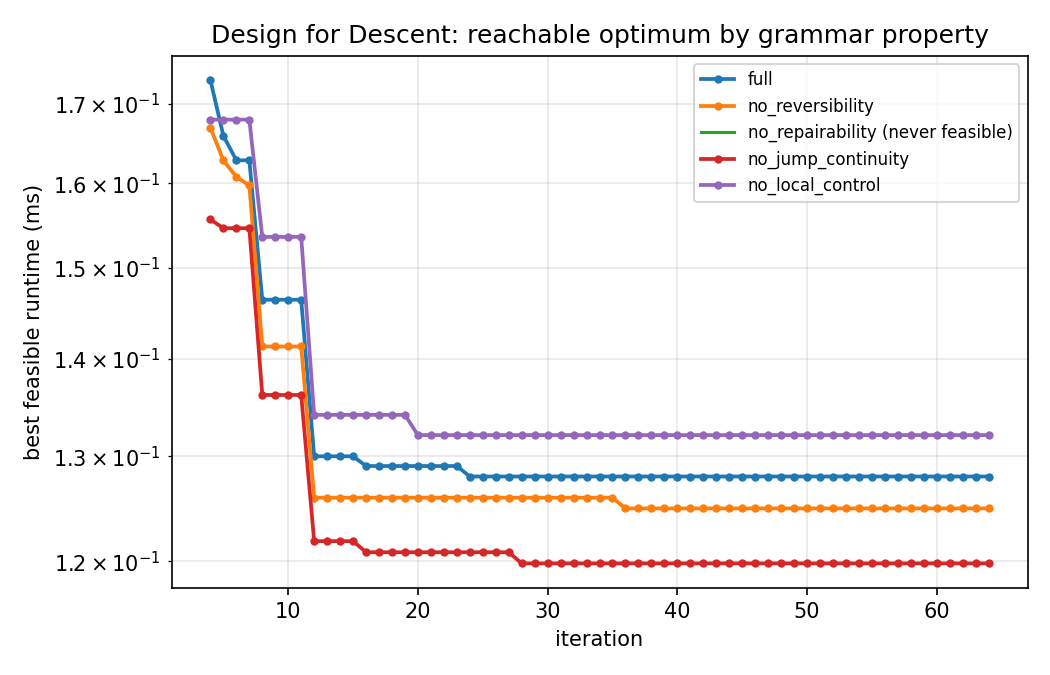
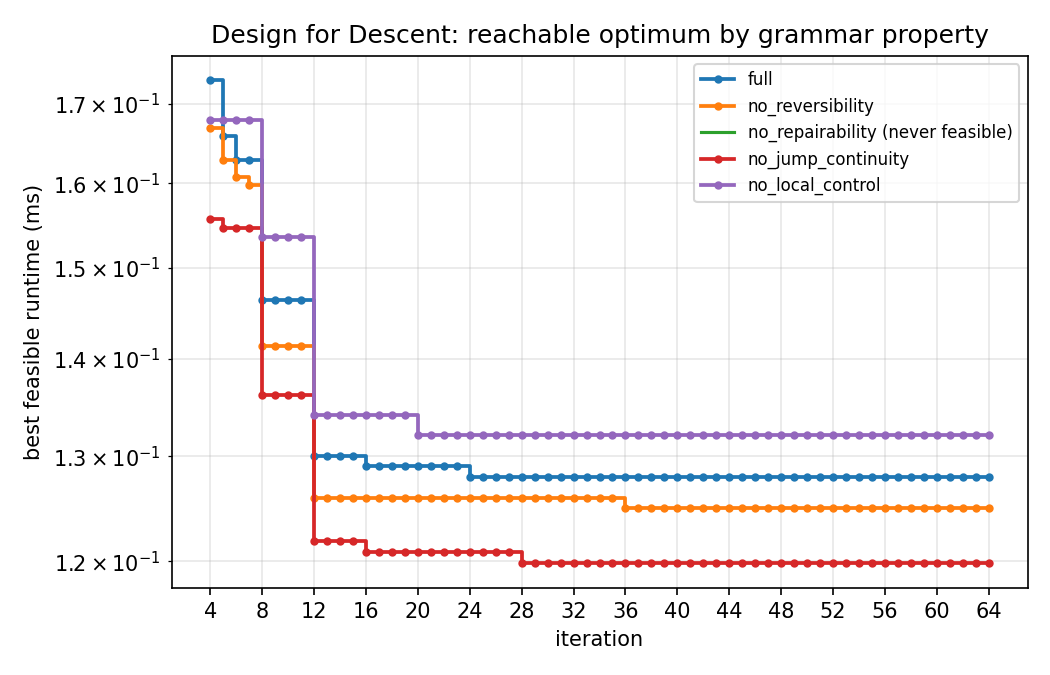
Figures, try for a manually fast kernel

diff --git a/manual-fast.py b/manual-fast.py
@@ -1,0 +1,164 @@
+"""Manually crafted fast attention kernel using the grammar.
+
+Three-stage design vs. the six stages in the atomic start / best_it24:
+
+  Stage 1:  Ss = (Q @ KT) * scale       -- matmul fused with scale, tiled over dd
+  Stage 2:  P  = softmax(Ss)            -- full-row softmax fused in ONE kernel:
+                                             rowmax -> sub -> exp -> rowsum -> div
+  Stage 3:  O  = P @ V                  -- matmul tiled over j with ReductionLoop
+
+Key savings vs. the search-discovered best_it24:
+  - Eliminates the separate mx (rowmax) and sm (rowsum) stages.
+  - Eliminates the intermediate e[N,N] tensor (1 write + 2 reads = ~3 MB for N=512).
+  - Reduces from 6 kernel launches to 3.
+  - The full softmax is computed in registers with a single pass over Ss.
+
+Tile choices (N=512, d=64) — small/conservative starting point:
+  Ss : (16, 16), RTILE_dd = 16  -> 1024 blocks, 4 reduction steps over dd
+  P  : (16, N),  no ReductionLoop -> 32 blocks, each loads one full Ss row (32 KB)
+                 (full-row load is required for correctness of rowmax/rowsum)
+  O  : (16, 16), RTILE_j  = 16  -> 128 blocks, 32 reduction steps over j
+"""
+
+import math
+
+from grammar.kernel_ast import (
+    Program, ParallelLoop, Load, Store, Compute, ReductionLoop, emit_module,
+)
+
+
+def build_fast_attention(N: int = 512, d: int = 64) -> Program:
+    """Return the hand-crafted three-stage attention Program."""
+    scale = 1.0 / math.sqrt(d)
+
+    # ------------------------------------------------------------------
+    # Stage 1: Ss = (Q @ KT) * scale
+    #
+    # Tile (16, 16) over output axes (i, j).  A ReductionLoop over dd
+    # (tile = 16) tiles the head-dimension contraction.  The scale multiply
+    # sits OUTSIDE the loop so it touches the fully-accumulated (16,16) tile
+    # once — identical to the fused Ss_kernel in best_it24.
+    # ------------------------------------------------------------------
+    Q1  = Load("Q",  ["i", "dd"])
+    KT1 = Load("KT", ["dd", "j"])
+    S1  = Compute("matmul", [Q1, KT1])
+    rl_dd = ReductionLoop("dd", tile=16, body=[Q1, KT1, S1], partial=S1)
+    Ss1   = Compute("mulc", [rl_dd], const=scale)
+    s_Ss  = ParallelLoop(
+        "Ss", (16, 16), ("i", "j"),
+        [rl_dd, Ss1, Store("Ss", Ss1, ["i", "j"])],
+    )
+
+    # ------------------------------------------------------------------
+    # Stage 2: P = softmax(Ss) — all ops fused in one kernel.
+    #
+    # Tile (16, N): j is NOT tiled (tile == global extent N), so each
+    # block loads one full row of Ss into registers, then computes:
+    #
+    #   mx  = rowmax(Ss)          -> (16, 1)
+    #   sb  = Ss - mx             -> (16, N)   broadcast
+    #   e   = exp(sb)             -> (16, N)
+    #   sm  = rowsum(e)           -> (16, 1)
+    #   P   = e / sm              -> (16, N)   broadcast
+    #
+    # This eliminates the mx[N,1], e[N,N], sm[N,1] intermediates and the
+    # three extra kernel launches that best_it24 uses for those stages.
+    #
+    # Peak tile: Ss load (16, N) = 32 KB — safely within the 64 KB budget.
+    # ------------------------------------------------------------------
+    SsL = Load("Ss", ["i", "j"])                       # (16, N) full row
+    mx  = Compute("rowmax", [SsL], axis="j")           # (16,  1)
+    sb  = Compute("sub",    [SsL, mx])                 # (16,  N)  broadcasts mx
+    e   = Compute("exp",    [sb])                      # (16,  N)
+    sm  = Compute("rowsum", [e],   axis="j")           # (16,  1)
+    P2  = Compute("div",    [e, sm])                   # (16,  N)  broadcasts sm
+    s_P = ParallelLoop(
+        "P", (16, N), ("i", "j"),
+        [SsL, mx, sb, e, sm, P2, Store("P", P2, ["i", "j"])],
+    )
+
+    # ------------------------------------------------------------------
+    # Stage 3: O = P @ V
+    #
+    # Tile (16, 16) over (i, dd).  A ReductionLoop over j (tile = 16)
+    # tiles the key-axis contraction.  Both P and V are loaded inside
+    # the loop: P(16,16) and V(16,16) per step, 32 steps total.
+    #
+    #   Grid      : (512/16, 64/16) = (32, 4) = 128 blocks
+    #   Peak tile : max(P=1 KB, V=1 KB, O_acc=1 KB) — well within budget
+    # ------------------------------------------------------------------
+    P3  = Load("P", ["i", "j"])
+    V3  = Load("V", ["j", "dd"])
+    O3  = Compute("matmul", [P3, V3])
+    rl_j = ReductionLoop("j", tile=16, body=[P3, V3, O3], partial=O3)
+    s_O  = ParallelLoop(
+        "O", (16, 16), ("i", "dd"),
+        [rl_j, Store("O", rl_j, ["i", "dd"])],
+    )
+
+    tens = {
+        "Q":  (N, d), "KT": (d, N), "V": (N, d),
+        "Ss": (N, N), "P":  (N, N), "O": (N, d),
+    }
+    return Program(tens, [s_Ss, s_P, s_O])
+
+
+# ---------------------------------------------------------------------------
+# CLI: --emit / --verify / --bench
+# ---------------------------------------------------------------------------
+if __name__ == "__main__":
+    import argparse
+
+    ap = argparse.ArgumentParser(
+        description="Emit and optionally benchmark the hand-crafted fast attention kernel."
+    )
+    ap.add_argument("--n",      type=int, default=512, help="sequence length N")
+    ap.add_argument("--d",      type=int, default=64,  help="head dimension d")
+    ap.add_argument("--emit",   action="store_true",   help="print the emitted kernel source")
+    ap.add_argument("--verify", action="store_true",   help="check numerical correctness vs. PyTorch reference")
+    ap.add_argument("--bench",  action="store_true",   help="time the kernel on GPU (requires CUDA)")
+    ap.add_argument("--warmup", type=int, default=5,   help="warmup iterations for benchmarking")
+    ap.add_argument("--reps",   type=int, default=200, help="timed iterations for benchmarking")
+    args = ap.parse_args()
+
+    prog = build_fast_attention(args.n, args.d)
+    src  = emit_module(prog)
+
+    if args.emit or (not args.verify and not args.bench):
+        print(src)
+
+    if args.verify or args.bench:
+        import cupy as cp
+        from grammar.optimization import _import_source
+
+        mod     = _import_source(src)
+        inp_map = {nm: cp.random.randn(*s).astype(cp.float32)
+                   for nm, s in mod.KERNEL_META["inputs"]}
+        inp_list = [inp_map[nm] for nm, _ in mod.KERNEL_META["inputs"]]
+
+        if args.verify:
+            out = mod.fn(*inp_list)
+            Q, KT, V = inp_map["Q"], inp_map["KT"], inp_map["V"]
+            S_ref = (Q @ KT) / math.sqrt(args.d)
+            e_ref = cp.exp(S_ref - S_ref.max(1, keepdims=True))
+            ref   = (e_ref / e_ref.sum(1, keepdims=True)) @ V
+            ok    = bool(cp.allclose(out, ref, rtol=1e-2, atol=1e-2))
+            print(f"correctness: {'PASS' if ok else 'FAIL'}")
+
+        if args.bench:
+            import time
+
+            for _ in range(args.warmup):
+                mod.fn(*inp_list)
+            cp.cuda.runtime.deviceSynchronize()
+
+            t0 = time.perf_counter()
+            for _ in range(args.reps):
+                mod.fn(*inp_list)
+            cp.cuda.runtime.deviceSynchronize()
+            ms = (time.perf_counter() - t0) * 1e3 / args.reps
+
+            flops  = mod.KERNEL_META["flops"]
+            tflops = flops / (ms * 1e-3) / 1e12
+            print(f"mean: {ms:.4f} ms  |  {tflops:.3f} TFLOP/s")
+            print(f"(best_it24 reference: 0.1063 ms on NVIDIA L4)")

diff --git a/plot_ablation.py b/plot_ablation.py
@@ -22,10 +22,12 @@ import argparse
 import json
 import math
 import os
+import re
 
 import matplotlib
 matplotlib.use("Agg")            # headless / no display needed
 import matplotlib.pyplot as plt
+from matplotlib.ticker import MultipleLocator
 
 
 PENALTY_BASE = 1e9               # matches optimization.MEM_PENALTY_BASE
@@ -90,13 +92,14 @@ def plot_ablation(runs: dict, out_path: str):
         feasible = any(not math.isnan(y) for y in ys)
         any_feasible[label] = feasible
         if feasible:
-            ax.plot(its, ys, marker="o", ms=3, lw=1.8, label=label)
+            ax.plot(its, ys, marker="o", ms=3, lw=1.8, label=label, drawstyle="steps-post")
         else:
             # never reached a compilable kernel: draw a flat line at the top so it
             # reads as "pinned at infeasible" rather than vanishing.
             ax.plot(its, [float("nan")] * len(its), label=f"{label} (never feasible)")
     ax.set_xlabel("iteration")
     ax.set_ylabel("best feasible runtime (ms)")
+    ax.xaxis.set_major_locator(MultipleLocator(4))
     ax.set_yscale("log")
     ax.set_title("Design for Descent: reachable optimum by grammar property")
     ax.legend(fontsize=8)
@@ -109,15 +112,78 @@ def plot_ablation(runs: dict, out_path: str):
         print(f"  {label}: {note}")
 
 
+def load_tflops(run_dir: str):
+    """Read results/it*.json -> sorted list of (iteration, tflops) pairs."""
+    results_dir = os.path.join(run_dir, "results")
+    if not os.path.isdir(results_dir):
+        return []
+    pairs = []
+    for fname in os.listdir(results_dir):
+        m = re.fullmatch(r"it(\d+)\.json", fname)
+        if not m:
+            continue
+        iteration = int(m.group(1))
+        with open(os.path.join(results_dir, fname)) as f:
+            data = json.load(f)
+        tflops = data.get("stats", {}).get("tflops")
+        if tflops is not None:
+            pairs.append((iteration, float(tflops)))
+    pairs.sort()
+    return pairs
+
+
+def load_baseline_tflops(json_path: str):
+    """Return the tflops value from a baseline result JSON, or None if missing."""
+    try:
+        with open(json_path) as f:
+            data = json.load(f)
+        return float(data["stats"]["tflops"])
+    except (OSError, KeyError, ValueError):
+        return None
+
+
+def plot_tflops(runs: dict, out_path: str, plot_refs: bool):
+    """runs: {label: run_dir}. TFLOP/s at each benchmarked iteration, one line each."""
+    fig, ax = plt.subplots(figsize=(7, 4.5))
+    for label, rd in runs.items():
+        pairs = load_tflops(rd)
+        if not pairs:
+            print(f"  {label}: no results/ data found, skipping")
+            continue
+        its, tflops = zip(*pairs)
+        ax.plot(its, tflops, marker="o", ms=4, lw=1.8, label=label, drawstyle="steps-post")
+
+    # Baseline reference lines
+    if plot_refs:
+        _script_dir = os.path.dirname(os.path.abspath(__file__))
+        flash2 = load_baseline_tflops(os.path.join(_script_dir, "results", "flash2-sota.json"))
+        naive  = load_baseline_tflops(os.path.join(_script_dir, "results", "naive-pytorch.json"))
+        if flash2 is not None:
+            ax.axhline(flash2, color="black", lw=1.2, ls="--", label=f"FlashAttn2 ({flash2:.2f} TFLOP/s)")
+        if naive is not None:
+            ax.axhline(naive, color="gray", lw=1.2, ls=":", label=f"Naive PyTorch ({naive:.2f} TFLOP/s)")
+
+    ax.set_xlabel("iteration")
+    ax.set_ylabel("TFLOP/s")
+    ax.xaxis.set_major_locator(MultipleLocator(4))
+    ax.set_title("Kernel throughput improvmenet by grammar property")
+    ax.legend(fontsize=8)
+    ax.grid(True, alpha=0.3)
+    fig.tight_layout()
+    fig.savefig(out_path, dpi=150)
+    print(f"wrote {out_path}")
+
+
 def plot_flops_vs_runtime(run_dir: str, out_path: str):
     """For one run: FLOPs (flat) and runtime (dropping) over iterations."""
     recs = load_log(run_dir)
     its, ms, _ = current_loss_regime(recs)
     flops = [r.get("flops") for r in recs]
     fig, ax1 = plt.subplots(figsize=(7, 4.5))
-    ax1.plot(its, ms, color="tab:blue", marker="o", ms=3, lw=1.8, label="runtime (ms)")
+    ax1.plot(its, ms, color="tab:blue", marker="o", ms=3, lw=1.8, label="runtime (ms)", drawstyle="steps-post")
     ax1.set_xlabel("iteration")
     ax1.set_ylabel("runtime (ms)", color="tab:blue")
+    ax1.xaxis.set_major_locator(MultipleLocator(4))
     ax1.set_yscale("log")
     ax1.tick_params(axis="y", labelcolor="tab:blue")
     ax2 = ax1.twinx()
@@ -138,6 +204,7 @@ def main():
     ap.add_argument("--headline", default=None,
                     help="run_dir for the FLOPs-vs-runtime figure")
     ap.add_argument("--out-dir", default="figs")
+    ap.add_argument("--plot-refs", default=False)
     args = ap.parse_args()
 
     runs = {}
@@ -149,6 +216,7 @@ def main():
 
     os.makedirs(args.out_dir, exist_ok=True)
     plot_ablation(runs, os.path.join(args.out_dir, "ablation.png"))
+    plot_tflops(runs, os.path.join(args.out_dir, "tflops.png"), args.plot_refs)
     if args.headline:
         plot_flops_vs_runtime(args.headline, os.path.join(args.out_dir, "flops_vs_runtime.png"))
 
